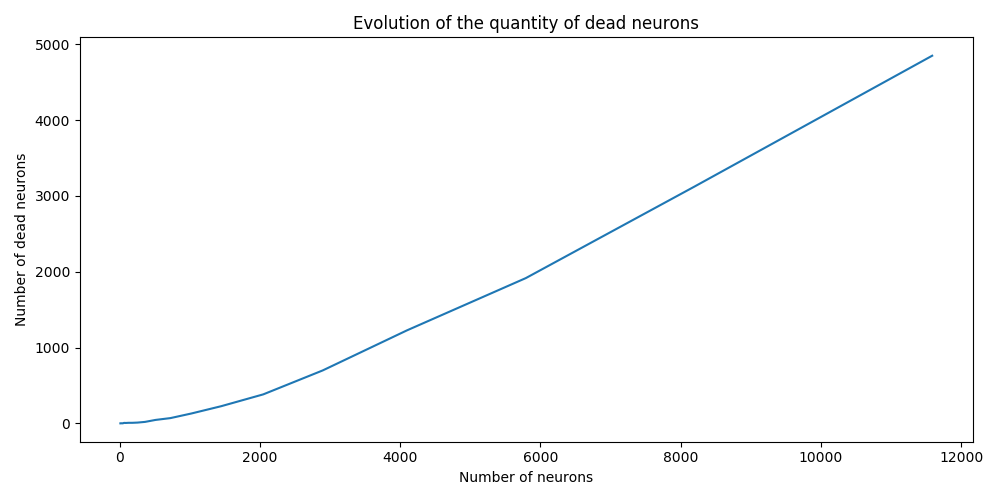
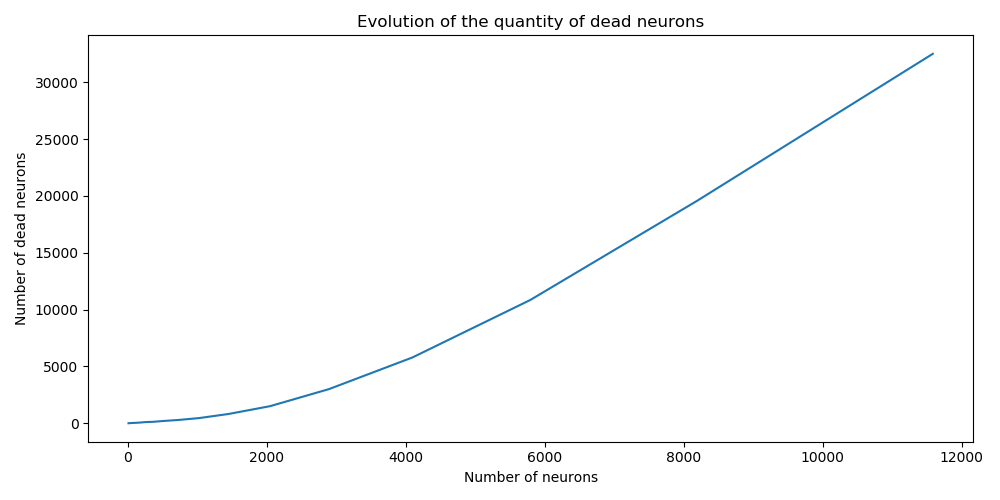
Run multiple experiments at the same time
- Reduce impact of randomness

diff --git a/variance_metric.py b/variance_metric.py
@@ -13,6 +13,8 @@ import scipy
 
 from models.MNIST_1h import MNIST_1h
 
+REPLICATES = 11
+
 transform = transforms.Compose([
                        transforms.ToTensor(),
                        transforms.Normalize((0.1307,), (0.3081,))
@@ -26,7 +28,8 @@ training_dataset = MNIST(
 )
 training_dataloader = DataLoader(
     training_dataset,
-    batch_size=64,
+    batch_size=128,
+    pin_memory=True,
     shuffle=True)
 
 testing_dataset = MNIST(
@@ -37,12 +40,23 @@ testing_dataset = MNIST(
 )
 testing_dataloader = DataLoader(
     testing_dataset,
-    batch_size=64,
+    batch_size=128,
+    pin_memory=True,
     shuffle=True)
 
-def init_models():
-    return [MNIST_1h(int(2**(i / 2))) for i in range(7, 29)]
+wrap = lambda x: x.cuda(async=True) if torch.is_tensor(x) and x.is_pinned() else x.cuda()
+unwrap = lambda x: x.cpu()
 
+def init_models(count=REPLICATES):
+    return [wrap(MNIST_1h(int(2**(i / 2)))) for i in range(7, 28) for _ in range(count)]
+
+def save_model(model, id):
+    with open('/tmp/model-%s.data' % id, 'wb+') as f:
+        torch.save(model, f)
+
+def load_model(id):
+    with open('/tmp/model-%s.data' % id, 'rb') as f:
+        return torch.load(f)
 
 def train(models):
     criterion = nn.CrossEntropyLoss()
@@ -52,8 +66,8 @@ def train(models):
         print("Epoch %s" % e)
         for i, (images, labels) in enumerate(training_dataloader):
             print(round(i / len(training_dataloader) * 100))
-            images = Variable(images, requires_grad=False)
-            labels = Variable(labels, requires_grad=False)
+            images = wrap(Variable(images, requires_grad=False))
+            labels = wrap(Variable(labels, requires_grad=False))
             for model, optimizer in zip(models, optimizers):
                 output = model(images)
                 loss = criterion(output, labels)
@@ -62,19 +76,26 @@ def train(models):
                 optimizer.zero_grad()
 
 
-def get_activations(model, loader=training_dataloader):
-    outputs = []
-    for images, labels in loader:
-        images = Variable(images, volatile=True)
-        outputs.append(model.partial_forward(images))
-    return torch.cat(outputs, 0).std(0).data.numpy()
+def get_activations(models, loader=training_dataloader):
+    results = []
+    for i, model in enumerate(reversed(models)):
+        model = wrap(model)
+        print('Model ', i)
+        outputs = None
+        for images, labels in loader:
+            images = wrap(Variable(images, volatile=True))
+            b = model.partial_forward(images)
+            outputs = b if outputs is None else torch.cat([outputs, b], 0)
+        model = None
+        results.append(unwrap(outputs.std(0).data).numpy())
+    return results
 
 
 def plot_distributions(activations):
-    to_plot = [1, 3,  5, 9, 11, 13]
+    to_plot = [1, 3,  5, 9, 11, 13, 15]
     plt.figure(figsize=(10, 5))
     for i in reversed(sorted(to_plot)):
-        sns.distplot(activations[i], hist=False, label="%s neurons" % len(activations[i]))
+        sns.distplot(activations[i], hist=False, label="%s neurons" % (len(activations[i]) / REPLICATES ))
     plt.xlim((0, 8.5))
     plt.xlabel('Standard deviation (unitless)')
     plt.ylabel('Density')
@@ -86,7 +107,7 @@ def plot_distributions(activations):
 
 
 def plot_sum_variance(activations):
-    sizes = np.array([len(x) for x in activations])
+    sizes = np.array([len(x) / REPLICATES for x in activations])
     sums = np.array([x.sum() for x in activations])
     plt.figure(figsize=(10, 5))
     plt.plot(sizes, sums)
@@ -99,7 +120,7 @@ def plot_sum_variance(activations):
 
 
 def plot_shapiro(activations):
-    sizes = np.array([len(x) for x in activations])
+    sizes = np.array([len(x) / REPLICATES for x in activations])
     t_values = np.array([scipy.stats.shapiro(x)[0] for x in activations])
     plt.figure(figsize=(10, 5))
     plt.plot(sizes, t_values)
@@ -135,7 +156,7 @@ def plot_distributions_arround_sweet(activations):
 
 
 def plot_dead_neurons(activations):
-    sizes = np.array([len(x) for x in activations])
+    sizes = np.array([len(x) / REPLICATES for x in activations])
     deads = np.array([(x == 0).sum() for x in activations])
     plt.figure(figsize=(10, 5))
     plt.plot(sizes, deads)
@@ -146,17 +167,21 @@ def plot_dead_neurons(activations):
     plt.savefig('./plots/MNIST_1h_dead_neurons.png')
     plt.close()
 
-def get_accuracy(model, loader=training_dataloader):
-    accs = []
+def get_accuracy(models, loader=training_dataloader):
+    models = [wrap(model) for model in models]
+    accs = [0] * len(models)
     for images, labels in loader:
-        images = Variable(images, volatile=True)
-        predicted = model(images).data
-        accs.append((predicted.max(1)[1] == labels).float().mean())
-    return np.array(accs).mean()
+        images = wrap(Variable(images, volatile=True))
+        labels = wrap(labels)
+        for i, model in enumerate(models):
+            predicted = model(images).data
+            acc = (predicted.max(1)[1] == labels).float().mean()
+            accs[i] += acc
+    return np.array(accs) / len(loader)
 
 
 def plot_compare_shapiro_accuracy(activations, accuracies):
-    sizes = np.array([len(x) for x in activations])
+    sizes = np.array([len(x) / REPLICATES for x in activations])
     t_values = np.array([scipy.stats.shapiro(x)[0] for x in activations])
     plt.figure(figsize=(10, 5))
     a = plt.gca()
@@ -171,11 +196,15 @@ def plot_compare_shapiro_accuracy(activations, accuracies):
     plt.close()
 
 
-if __name__ == '__main__':
+if False and __name__ == '__main__':
     models = init_models()
     train(models)
-    activations = [get_activations(model) for model in models]
-    accuracies = np.array([get_accuracy(x) for x in models])
+    for i, model in enumerate(models):
+        save_model(models, i)
+    models = [unwrap(model) for model in models] # Freeing some GPU memory
+    activations = np.array(get_activations(models)).reshape(-1, REPLICATES)
+    activations = [np.concatenate(a) for a in activations]
+    accuracies = get_accuracy(models).reshape(-1, REPLICATES).mean(axis=1) 
     plot_distributions(activations)
     plot_shapiro(activations)
     plot_sum_variance(activations)
